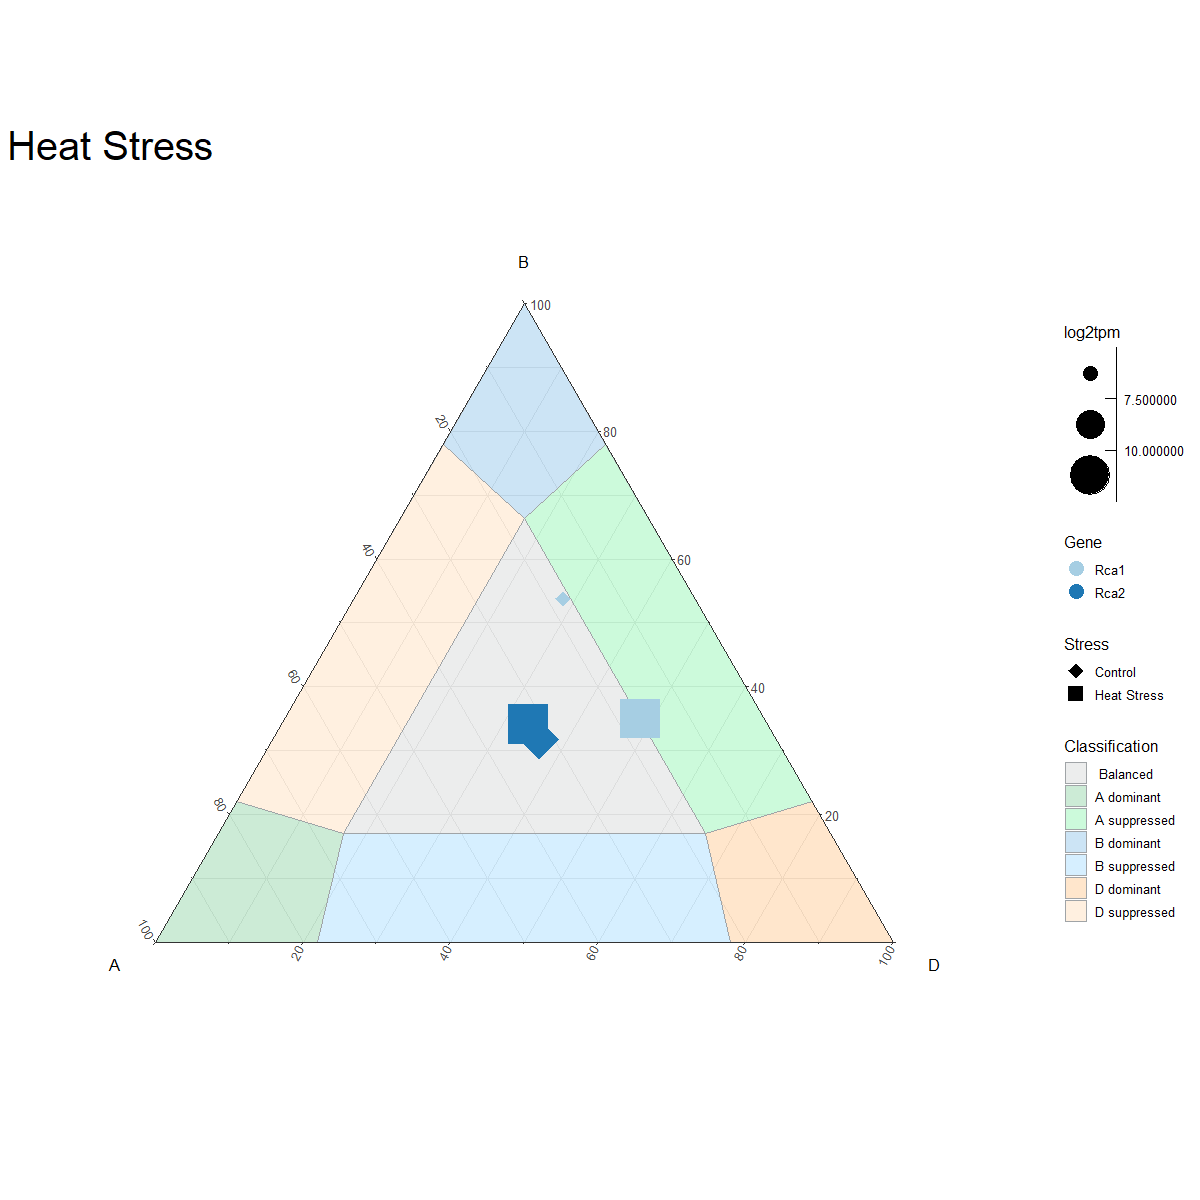
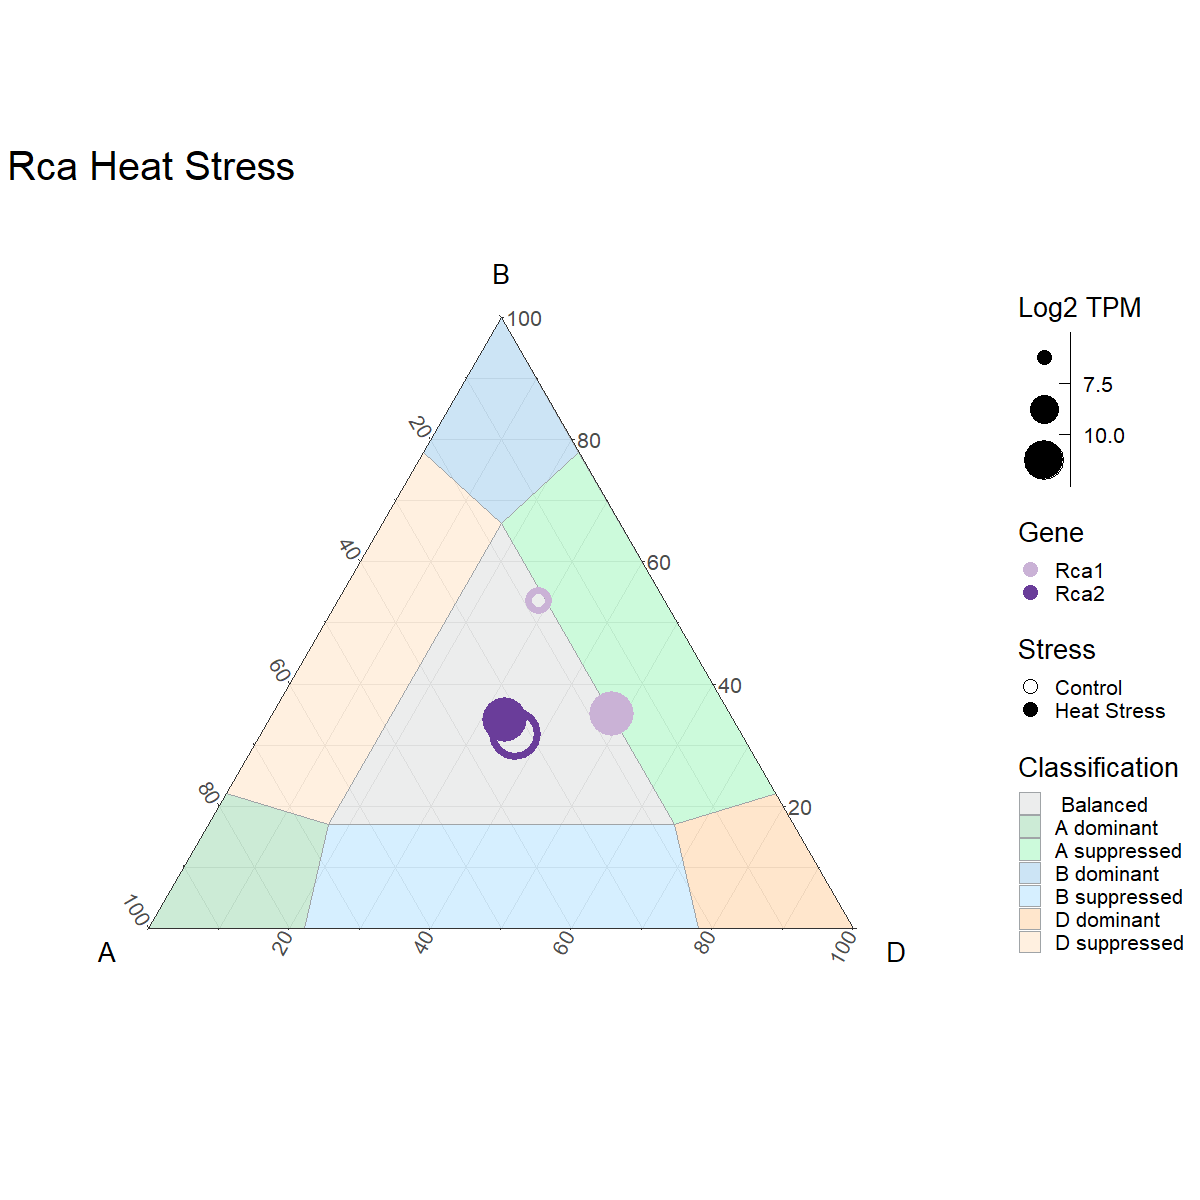
Updated figures for manuscript

diff --git a/Wheat-Rubiscosome-Expression-Balance-Report.md b/Wheat-Rubiscosome-Expression-Balance-Report.md
@@ -196,7 +196,8 @@ Rubiscosome_mean_leaf <- Rubiscosome_exp_leaf %>%
   mutate(log2tpm = log2(tpm_total)) %>%
   mutate(A = A_tpm/(A_tpm + B_tpm + D_tpm)) %>%
   mutate(B = B_tpm/(A_tpm + B_tpm + D_tpm)) %>%
-  mutate(D = D_tpm/(A_tpm + B_tpm + D_tpm))
+  mutate(D = D_tpm/(A_tpm + B_tpm + D_tpm)) %>%
+  mutate(log2tpm = round(log2tpm, 1))
 ```
 
 ### Spike Data Summary
@@ -215,7 +216,8 @@ Rubiscosome_mean_spike <- Rubiscosome_exp_spike %>%
   mutate(log2tpm = log2(tpm_total)) %>%
   mutate(A = A_tpm/(A_tpm + B_tpm + D_tpm)) %>%
   mutate(B = B_tpm/(A_tpm + B_tpm + D_tpm)) %>%
-  mutate(D = D_tpm/(A_tpm + B_tpm + D_tpm))
+  mutate(D = D_tpm/(A_tpm + B_tpm + D_tpm)) %>%
+  mutate(log2tpm = round(log2tpm, 1))
 ```
 
 ### Heat Stress Summary
@@ -255,7 +257,8 @@ Rubiscosome_mean_contr <- Rubiscosome_exp_heat %>%
   mutate(B = B_tpm/(A_tpm + B_tpm + D_tpm)) %>%
   mutate(D = D_tpm/(A_tpm + B_tpm + D_tpm))
 
-Rubiscosome_mean_heat_control <- full_join(Rubiscosome_mean_heat, Rubiscosome_mean_contr )
+Rubiscosome_mean_heat_control <- full_join(Rubiscosome_mean_heat, Rubiscosome_mean_contr ) %>%
+  mutate(log2tpm = round(log2tpm, 1))
 ```
 
     ## Joining, by = c("Gene", "A_tpm", "B_tpm", "D_tpm", "tpm_total", "log2tpm", "Stress", "A", "B", "D")
@@ -389,12 +392,14 @@ LeavesShoots <- ggtern(data=df,aes(A,B,D)) +
                               "#cab2d6", "#6a3d9a", "#b15928" )) +
   theme_bw() +
   guides(colour = guide_legend(override.aes = list(size=5))) +
-  theme(plot.title = element_text(size = 30))+
+  theme(plot.title = element_text(size = 30),
+        text = element_text(size=20))+
   labs(title="Leaves and Shoots",
        fill = "Classification",
        T="B",
        L="A",
-       R="D")
+       R="D",
+       size="Log2 TPM")
 LeavesShoots
 ```
 
@@ -417,12 +422,14 @@ Spike <- ggtern(data=df,aes(A,B,D)) +
                               "#cab2d6", "#6a3d9a", "#b15928" )) +
   theme_bw() +
   guides(colour = guide_legend(override.aes = list(size=5))) +
-  theme(plot.title = element_text(size = 30))+
+  theme(plot.title = element_text(size = 30),
+        text = element_text(size=20))+
   labs(title="Spike",
        fill = "Classification",
        T="B",
        L="A",
-       R="D")
+       R="D",
+       size="Log2 TPM")
 Spike
 ```
 
@@ -438,8 +445,9 @@ HeatStress <- ggtern(data=df,aes(A,B,D)) +
              aes(A,B,D, 
                  color=Gene,
                  size=log2tpm,
-                 shape=Stress)) +
-  scale_shape_manual(values=c(18, 15)) +
+                 shape=Stress,
+                 stroke=4)) +
+  scale_shape_manual(values=c(21, 16)) +
   scale_size_binned(range = c(1, 15),
                     breaks = c(7.5, 10, 12.5)) +
   scale_color_manual(values=c("#a6cee3", "#1f78b4", "#b2df8a", "#33a02c",
@@ -448,12 +456,14 @@ HeatStress <- ggtern(data=df,aes(A,B,D)) +
   theme_bw() +
   guides(colour = guide_legend(override.aes = list(size=5)),
          shape = guide_legend(override.aes = list(size=5))) +
-  theme(plot.title = element_text(size = 30))+
+  theme(plot.title = element_text(size = 30),
+        text = element_text(size=20))+
   labs(title="Heat Stress",
        fill = "Classification",
        T="B",
        L="A",
-       R="D")
+       R="D",
+       size="Log2 TPM")
 HeatStress
 ```
 
@@ -470,22 +480,23 @@ HeatStressRca <- ggtern(data=df,aes(A,B,D)) +
              aes(A,B,D, 
                  color=Gene,
                  size=log2tpm,
-                 shape=Stress)) +
-  scale_shape_manual(values=c(18, 15)) +
+                 shape=Stress,
+                 stroke = 4)) +
+  scale_shape_manual(values=c(21, 16)) +
   scale_size_binned(range = c(1, 15),
                     breaks = c(7.5, 10, 12.5)) +
-  scale_color_manual(values=c("#a6cee3", "#1f78b4", "#b2df8a", "#33a02c",
-                              "#fb9a99", "#e31a1c", "#fdbf6f", "#ff7f00",
-                              "#cab2d6", "#6a3d9a", "#b15928" )) +
+  scale_color_manual(values=c("#cab2d6", "#6a3d9a")) +
   theme_bw() +
   guides(colour = guide_legend(override.aes = list(size=5)),
          shape = guide_legend(override.aes = list(size=5))) +
-  theme(plot.title = element_text(size = 30))+
-  labs(title="Heat Stress",
+  theme(plot.title = element_text(size = 30),
+        text = element_text(size=20))+
+  labs(title="Rca Heat Stress",
        fill = "Classification",
        T="B",
        L="A",
-       R="D")
+       R="D",
+       size="Log2 TPM")
 HeatStressRca
 ```
 
